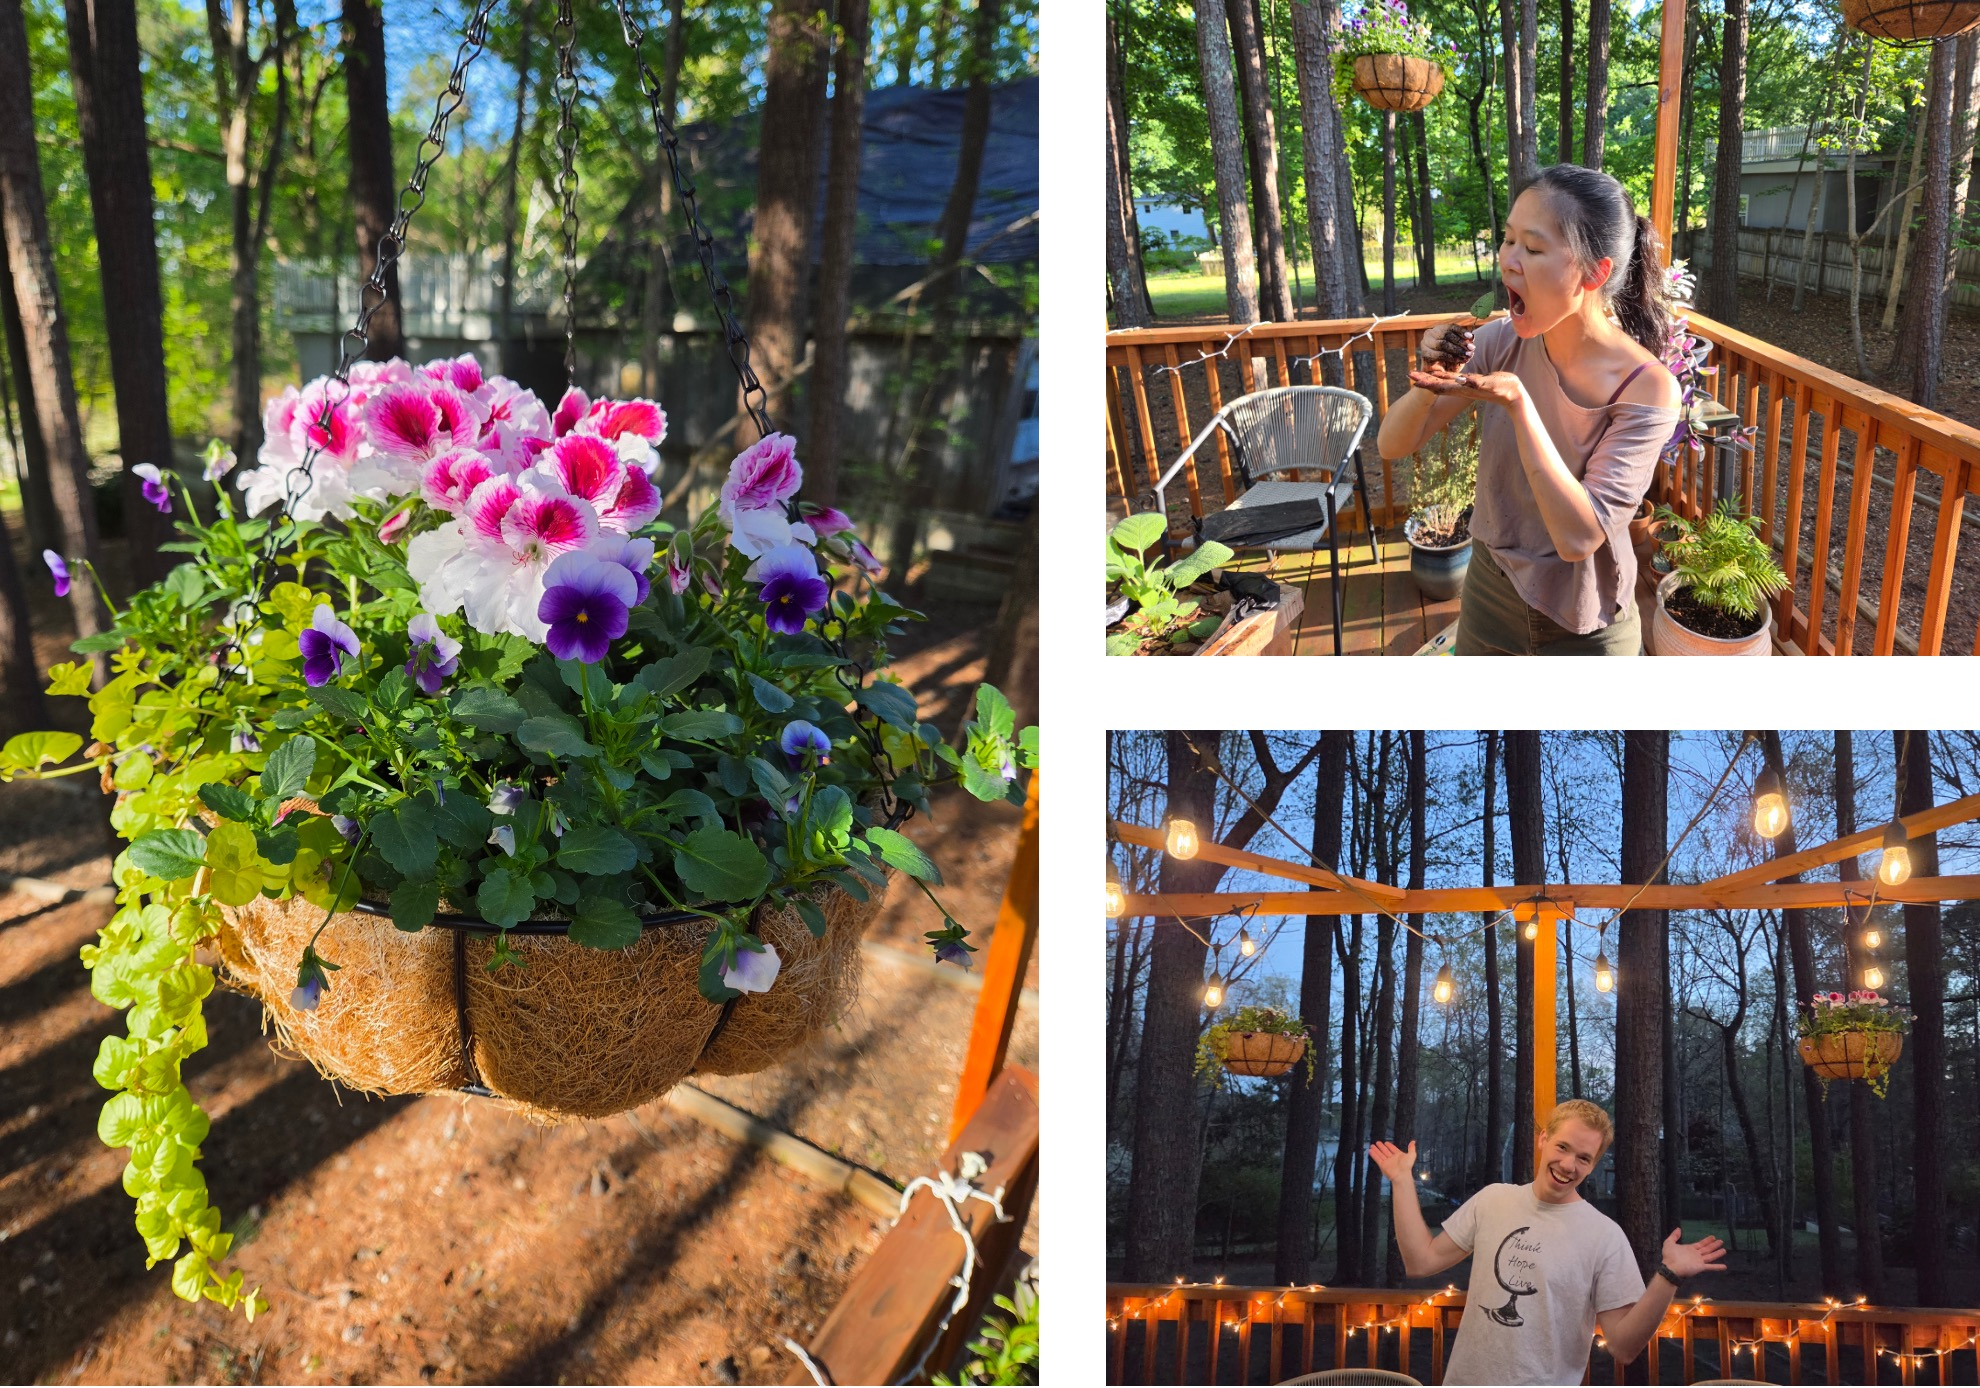
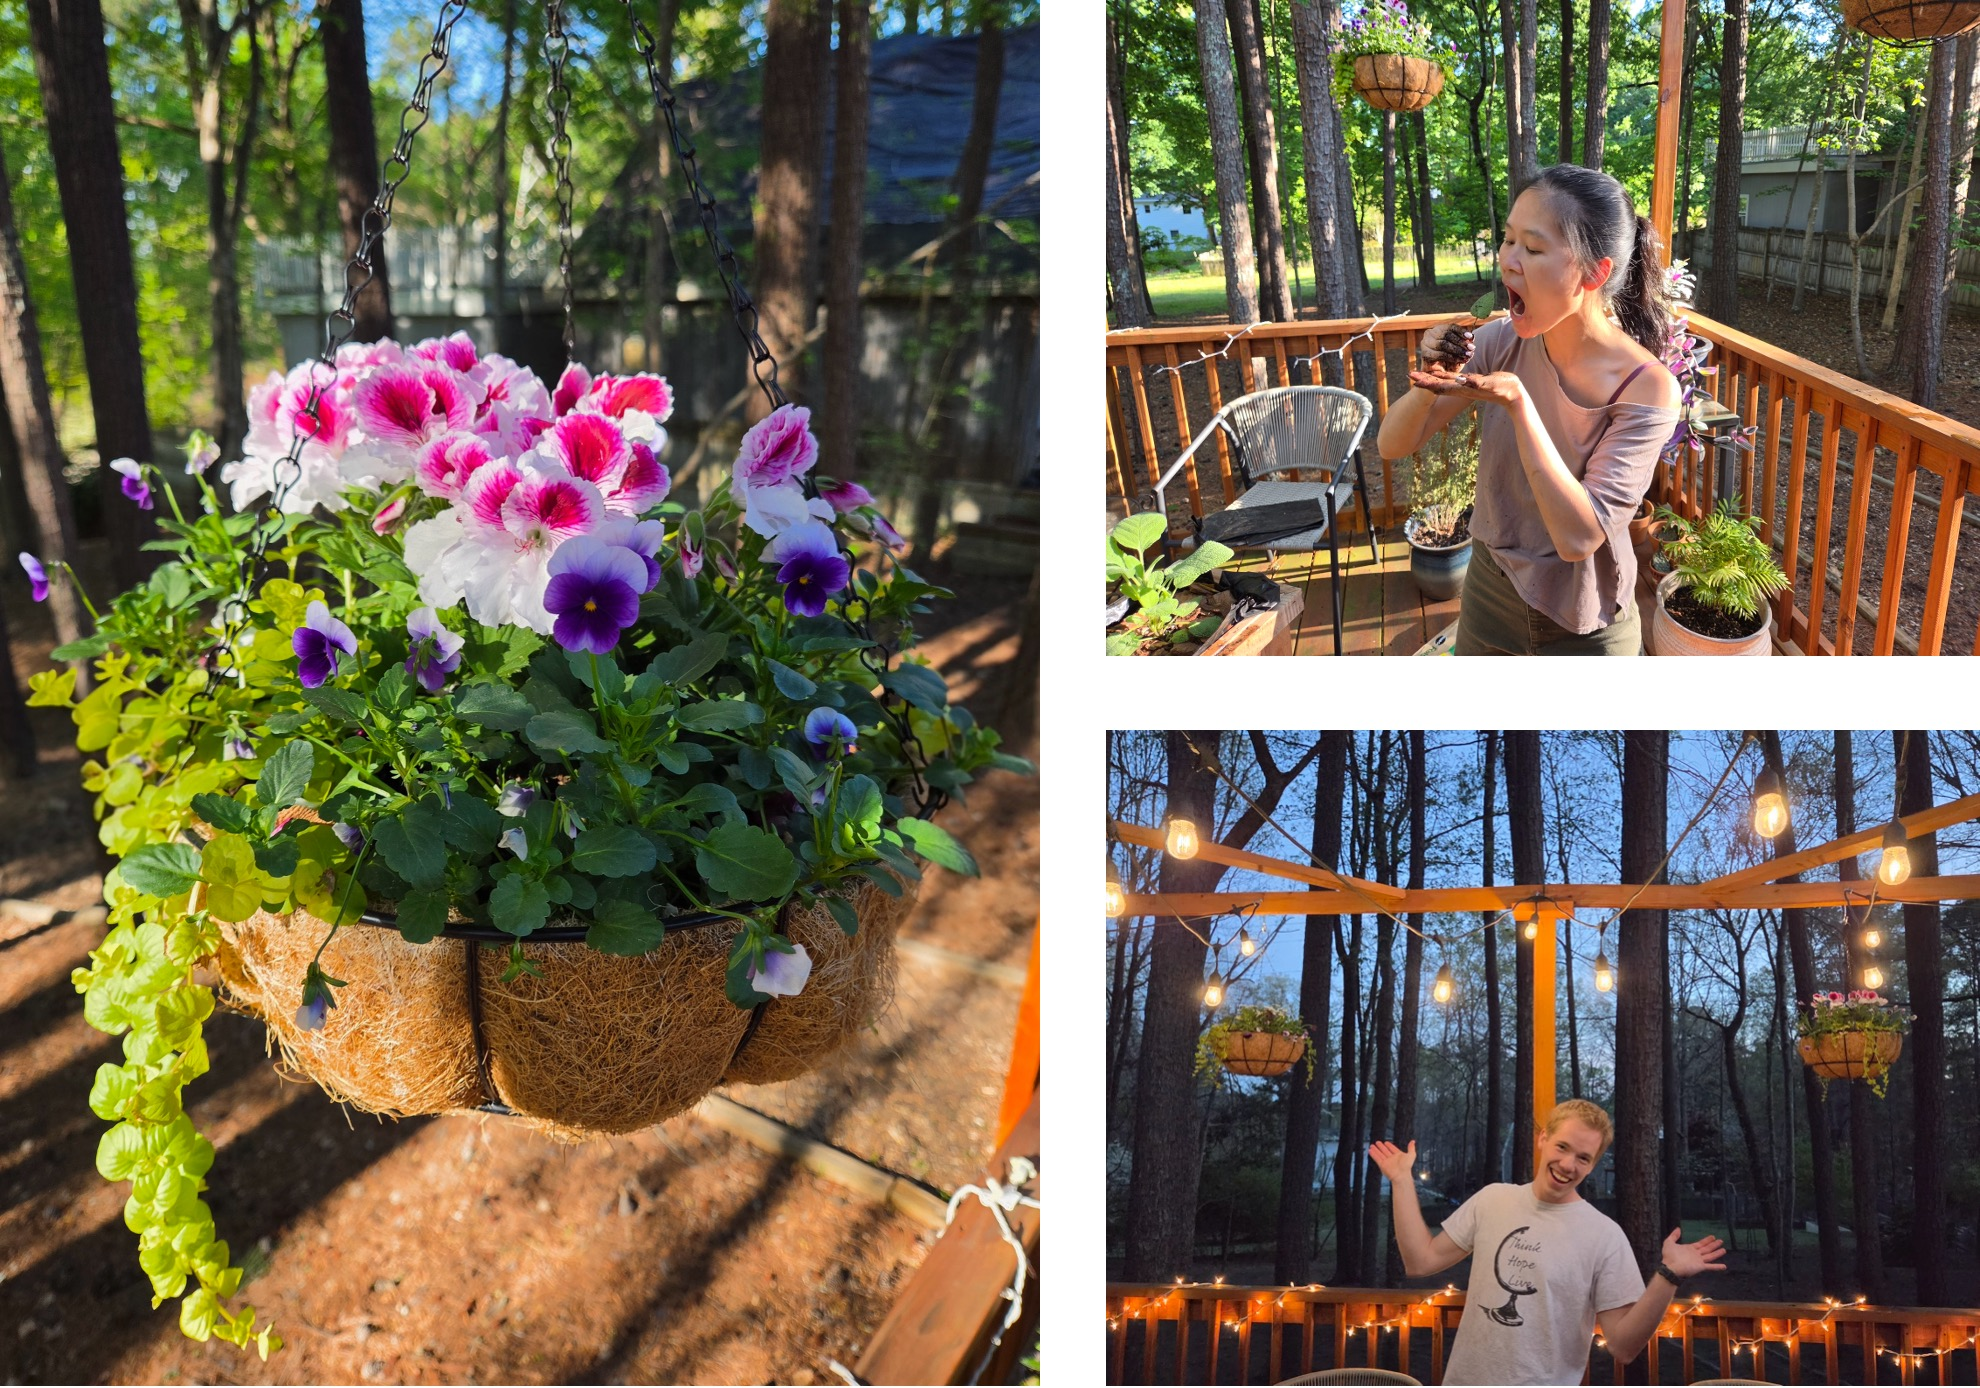
typos

diff --git a/docs/page_recipes.html b/docs/page_recipes.html
@@ -88,6 +88,11 @@
 <li class="toctree-l3"><a class="reference internal" href="#id14">Instructions</a></li>
 </ul>
 </li>
+<li class="toctree-l2"><a class="reference internal" href="#cacio-de-pere">Cacio de Pere</a><ul>
+<li class="toctree-l3"><a class="reference internal" href="#id16">Ingredients</a></li>
+<li class="toctree-l3"><a class="reference internal" href="#id17">Instructions</a></li>
+</ul>
+</li>
 </ul>
 </li>
 </ul>
@@ -133,7 +138,7 @@ This may be the case for family, custom, and social media recipes.</p>
 <li><p>1/2 small head cabbage, coarsely chopped (about 3 cups)</p></li>
 <li><p>1/4 cup chicken broth or white wine</p></li>
 <li><p>S&amp;P to taste</p></li>
-<li><p>Crumbled bacon (optional)</p></li>
+<li><p>crumbled bacon (optional)</p></li>
 </ul>
 </section>
 <section id="directions">
@@ -154,8 +159,8 @@ This may be the case for family, custom, and social media recipes.</p>
 <h3>Ingredients<a class="headerlink" href="#id3" title="Link to this heading"></a></h3>
 <ul class="simple">
 <li><p>2 lb russet potatoes</p></li>
-<li><p>Pinch white pepper</p></li>
-<li><p>Pinch nutmeg</p></li>
+<li><p>pinch white pepper</p></li>
+<li><p>pinch nutmeg</p></li>
 <li><p>S&amp;P to taste</p></li>
 <li><p>2 large eggs</p></li>
 <li><p>1/2 cup Ricotta cheese</p></li>
@@ -183,7 +188,7 @@ This may be the case for family, custom, and social media recipes.</p>
 <h3>Ingredients<a class="headerlink" href="#id6" title="Link to this heading"></a></h3>
 <ul class="simple">
 <li><p>1 lb chicken breasts</p></li>
-<li><p>Salt and pepper</p></li>
+<li><p>salt and pepper</p></li>
 <li><p>1/4 cup flour</p></li>
 <li><p>3 1/2 T unsalted butter</p></li>
 <li><p>2 cloves minced garlic</p></li>
@@ -246,7 +251,7 @@ This may be the case for family, custom, and social media recipes.</p>
 <ul class="simple">
 <li><p>1/2 cup sour cream</p></li>
 <li><p>1/4 cup mayonnaise</p></li>
-<li><p>Roasted garlic (the whole head)</p></li>
+<li><p>roasted garlic (the whole head)</p></li>
 <li><p>2 chipotle pepper</p></li>
 <li><p>1 T honey</p></li>
 <li><p>1/2 lime, juiced</p></li>
@@ -316,6 +321,39 @@ This may be the case for family, custom, and social media recipes.</p>
 <li><p>Meanwhile, mix the chili crisp, gochujang, soy sauce, brown sugar, rice vinegar, sesame oil and water together in a small dish to make the sauce mix.</p></li>
 <li><p>When the tofu is done, sauté the spring onion, garlic &amp; ginger until fragrant, then add the tofu followed by the sauce mix.</p></li>
 <li><p>Stir in &amp; cook down until thick &amp; sticky then serve immediately over rice, topped with spring onion &amp; sesame seeds.</p></li>
+</ol>
+<hr class="docutils" />
+</section>
+</section>
+<section id="cacio-de-pere">
+<span id="id15"></span><h2>Cacio de Pere<a class="headerlink" href="#cacio-de-pere" title="Link to this heading"></a></h2>
+<section id="id16">
+<h3>Ingredients<a class="headerlink" href="#id16" title="Link to this heading"></a></h3>
+<ul class="simple">
+<li><p>8 oz pappardelle pasta</p></li>
+<li><p>1 cup pecorino</p></li>
+<li><p>2 under-ripe pears</p></li>
+<li><p>olive oil</p></li>
+<li><p>salt and pepper</p></li>
+<li><p>grilled chicken</p></li>
+</ul>
+</section>
+<section id="id17">
+<h3>Instructions<a class="headerlink" href="#id17" title="Link to this heading"></a></h3>
+<ol class="arabic simple">
+<li><p>Cook the pasta. When draining, reserve at least 1 cup of pasta water.</p></li>
+<li><p>Measure out pecorino into bowl and season with pepper.</p></li>
+<li><p>Dice up the pears into 1/2” cubes.</p></li>
+<li><p>Place non-stick pan on medium-high heat with some olive oil.</p></li>
+<li><p>Add diced pears, then season generously with salt and pepper.</p></li>
+<li><p>Cook the pears for 5-8 min, stirring frequently, until golden brown.</p></li>
+<li><p>When the pears are done, remove them from the pan, keeping any free olive oil in the pan.</p></li>
+<li><p>Lower the heat to medium-low and add a little olive oil if the pan is dry.</p></li>
+<li><p>Crack in some pepper and sauté for a couple minutes.</p></li>
+<li><p>While the pepper heats up, add ~1/4 cup pasta water to the cheese bowl. Mix thoroughly until a smooth paste forms.</p></li>
+<li><p>Add the pasta to the pan and coat with olive oil.</p></li>
+<li><p>Add ~1/2 cup pasta water. Stir. Add the pears. Stir. Add the cheese paste. Stir.</p></li>
+<li><p>As soon as everything is combined, remove from heat.</p></li>
 </ol>
 </section>
 </section>

diff --git a/docs/calendar_summer26.html b/docs/calendar_summer26.html
@@ -169,7 +169,7 @@
 		<ul class="list-disc pl-5 event-summary">
 			<li class="event-hsv2" style="background-color: #c8e0d2;">May 28-June 1: FCF + HSV + Mtns ~ Fall Creek Falls to Huntsville to NC mountains</li>
 			<li class="event-rachel" style="background-color: #f9dece;">June 2: Rachel's 24th Bday</li>
-			<li class="event-movie" style="background-color: #e8d5e8;">June 13: Movie Date ~ Devil Wears Prada 2 at the Graham Theater</li>
+			<li class="event-movie" style="background-color: #e8d5e8;">June 13: Movie Date ~ The Devil Wears Prada 2 at the Graham Theater</li>
 			<li class="event-father" style="background-color: #d2f0ed;">June 21: Father's Day</li>
 		</ul>
 	</div>
@@ -200,7 +200,7 @@
 		<div class="calendar-day event-day"><span>17</span><div class="event-text event-sea" style="font-weight: bold;">Seattle</div></div>
 		<div class="calendar-day event-day"><span>18</span><div class="event-text event-sea" style="font-weight: bold;">Seattle</div></div>
 		<div class="calendar-day event-day"><span>19</span><div class="event-text event-sea" style="font-weight: bold;">Seattle</div></div>
-		<div class="calendar-day event-day"><span>20</span><div class="event-text event-sea" style="font-weight: bold;">Seattle</div><div class="event-text event-house" style="font-weight: bold;">Closing Date</div></div>
+		<div class="calendar-day event-day"><span>20</span><div class="event-text event-sea" style="font-weight: bold;">Seattle</div><div class="event-text event-house" style="font-weight: bold;">Closing</div></div>
 		<div class="calendar-day event-day"><span>21</span><div class="event-text event-sea" style="font-weight: bold;">Seattle</div></div>
 		<div class="calendar-day event-day"><span>22</span><div class="event-text event-sea" style="font-weight: bold;">Seattle</div></div>
 		<div class="calendar-day"><span>23</span></div>
@@ -217,7 +217,7 @@
 		<h3 class="text-base font-medium">Events:</h3>
 		<ul class="list-disc pl-5 event-summary">
 			<li class="event-sea" style="background-color: #e8d5e8;">July 15-22: Seattle ~ visiting Xingzi and Sophie in Seattle with Jennifer, and climbing mountains</li>
-			<li class="event-house" style="background-color: #c9e2f7;">July 20: Closing Date ~ finalization of Laura's Lynchburg house purchase</li>
+			<li class="event-house" style="background-color: #c9e2f7;">July 20: Closing ~ finalization of Laura's Lynchburg house purchase</li>
 			<li class="event-dad" style="background-color: #f9dece;">July 27: Dad's Bday ~ celebrating father Phillips' day of birth</li>
 			<li class="event-maine" style="background-color: #f9f3c7;">July 29-August 3: Jen Time Maine ~ exploring the pine tree state with Jennifer</li>
 		</ul>

diff --git a/docs/page_food.html b/docs/page_food.html
@@ -631,8 +631,8 @@ But it was so tasty that it belongs on this record to remind Daniel to make it a
 <img alt="_images/260415_kale_salad.webp" src="_images/260415_kale_salad.webp" />
 <div class="admonition tip">
 <p class="admonition-title">Tip</p>
-<p>One might be tempted to cool this salad down before serving (it is a salad after all), even though the recipe does not mention this step.
-While this salad may still be tasty cold, it is definitely best right after mixing, when still warm.</p>
+<p>One might be tempted to cool this salad down before serving (it’s a salad after all), even though the recipe does not mention this step.
+While this salad is still tasty cold, it is definitely best right after mixing, when still warm.</p>
 </div>
 </section>
 <section id="id52">
@@ -684,7 +684,7 @@ While this salad may still be tasty cold, it is definitely best right after mixi
 <img alt="_images/260527_burgers.webp" src="_images/260527_burgers.webp" />
 <div class="admonition warning">
 <p class="admonition-title">Warning</p>
-<p>When cooking for Sophie, pay extra attention to the doneness of the meat - it has a tendency to come out severely undercooked when she is around.</p>
+<p>When cooking for Sophie, pay extra attention to the doneness of the meat: it has a tendency to come out severely undercooked when she is around.</p>
 </div>
 </section>
 <section id="cauliflower-couscous-salad">

diff --git a/source/_extra/calendar_summer26.html b/source/_extra/calendar_summer26.html
@@ -169,7 +169,7 @@
 		<ul class="list-disc pl-5 event-summary">
 			<li class="event-hsv2" style="background-color: #c8e0d2;">May 28-June 1: FCF + HSV + Mtns ~ Fall Creek Falls to Huntsville to NC mountains</li>
 			<li class="event-rachel" style="background-color: #f9dece;">June 2: Rachel's 24th Bday</li>
-			<li class="event-movie" style="background-color: #e8d5e8;">June 13: Movie Date ~ Devil Wears Prada 2 at the Graham Theater</li>
+			<li class="event-movie" style="background-color: #e8d5e8;">June 13: Movie Date ~ The Devil Wears Prada 2 at the Graham Theater</li>
 			<li class="event-father" style="background-color: #d2f0ed;">June 21: Father's Day</li>
 		</ul>
 	</div>
@@ -200,7 +200,7 @@
 		<div class="calendar-day event-day"><span>17</span><div class="event-text event-sea" style="font-weight: bold;">Seattle</div></div>
 		<div class="calendar-day event-day"><span>18</span><div class="event-text event-sea" style="font-weight: bold;">Seattle</div></div>
 		<div class="calendar-day event-day"><span>19</span><div class="event-text event-sea" style="font-weight: bold;">Seattle</div></div>
-		<div class="calendar-day event-day"><span>20</span><div class="event-text event-sea" style="font-weight: bold;">Seattle</div><div class="event-text event-house" style="font-weight: bold;">Closing Date</div></div>
+		<div class="calendar-day event-day"><span>20</span><div class="event-text event-sea" style="font-weight: bold;">Seattle</div><div class="event-text event-house" style="font-weight: bold;">Closing</div></div>
 		<div class="calendar-day event-day"><span>21</span><div class="event-text event-sea" style="font-weight: bold;">Seattle</div></div>
 		<div class="calendar-day event-day"><span>22</span><div class="event-text event-sea" style="font-weight: bold;">Seattle</div></div>
 		<div class="calendar-day"><span>23</span></div>
@@ -217,7 +217,7 @@
 		<h3 class="text-base font-medium">Events:</h3>
 		<ul class="list-disc pl-5 event-summary">
 			<li class="event-sea" style="background-color: #e8d5e8;">July 15-22: Seattle ~ visiting Xingzi and Sophie in Seattle with Jennifer, and climbing mountains</li>
-			<li class="event-house" style="background-color: #c9e2f7;">July 20: Closing Date ~ finalization of Laura's Lynchburg house purchase</li>
+			<li class="event-house" style="background-color: #c9e2f7;">July 20: Closing ~ finalization of Laura's Lynchburg house purchase</li>
 			<li class="event-dad" style="background-color: #f9dece;">July 27: Dad's Bday ~ celebrating father Phillips' day of birth</li>
 			<li class="event-maine" style="background-color: #f9f3c7;">July 29-August 3: Jen Time Maine ~ exploring the pine tree state with Jennifer</li>
 		</ul>

diff --git a/docs/page_timeline.html b/docs/page_timeline.html
@@ -61,6 +61,7 @@
 <li class="toctree-l2"><a class="reference internal" href="#second-wedding">Second Wedding</a></li>
 <li class="toctree-l2"><a class="reference internal" href="#one-year-anniversary">One Year Anniversary</a></li>
 <li class="toctree-l2"><a class="reference internal" href="#plants-in-south-carolina">Plants in South Carolina</a></li>
+<li class="toctree-l2"><a class="reference internal" href="#spring-planting">Spring Planting</a></li>
 </ul>
 </li>
 <li class="toctree-l1"><a class="reference internal" href="page_food.html">Lover’s Digest</a></li>
@@ -205,6 +206,10 @@ The separation hurt them both deeply, and they hope to always celebrate together
 <h2>Plants in South Carolina<a class="headerlink" href="#plants-in-south-carolina" title="Link to this heading"></a></h2>
 <p>Daniel could not have asked for a better Christmas present.</p>
 <img alt="_images/251227_SC_plants.webp" src="_images/251227_SC_plants.webp" />
+</section>
+<section id="spring-planting">
+<h2>Spring Planting<a class="headerlink" href="#spring-planting" title="Link to this heading"></a></h2>
+<img alt="_images/260503_planting.webp" src="_images/260503_planting.webp" />
 </section>
 </section>
 

diff --git a/docs/page_projects.html b/docs/page_projects.html
@@ -126,7 +126,7 @@ For an overwhelmingly cute documentation of her reads (or, to be more accurate, 
 </section>
 <section id="wood-chop">
 <h2>Wood Chop<a class="headerlink" href="#wood-chop" title="Link to this heading"></a></h2>
-<p>No better way to stay warm in the winter! Plus, the fire later is nice and warm too!</p>
+<p>No better way to stay warm in the winter! Plus, the fire is nice and warm too!</p>
 <div style="position: relative; width: 100%; max-width: 100%;">
     <video width="100%" height="auto" loop controls>
         <source src="260123_chop.mp4" type="video/mp4">
@@ -138,7 +138,7 @@ For an overwhelmingly cute documentation of her reads (or, to be more accurate, 
 <img alt="_images/260301_seedlings.webp" src="_images/260301_seedlings.webp" />
 <div class="admonition attention">
 <p class="admonition-title">Attention</p>
-<p>Ideally, seeds should be planted when the primary caretaker will be nearby, giving the seedlins attention and keeping the soil moist, for the next several weeks.
+<p>Ideally, seeds should be planted when the primary caretaker will be nearby for the next several weeks, making sure the seedlings receive ample attention and the soil stays moist.
 If, for example, the head gardener were to (partially unexpectedly) leave town for 2.5 weeks shortly after sowing the seeds, and the seeds were to remain without water for the duration of this period, the seedlings would most assuredly die.</p>
 </div>
 </section>

diff --git a/docs/index.html b/docs/index.html
@@ -109,6 +109,7 @@ As far as he can tell, Laura liked it. This conclusion can be made with some con
 <li class="toctree-l2"><a class="reference internal" href="page_timeline.html#second-wedding">Second Wedding</a></li>
 <li class="toctree-l2"><a class="reference internal" href="page_timeline.html#one-year-anniversary">One Year Anniversary</a></li>
 <li class="toctree-l2"><a class="reference internal" href="page_timeline.html#plants-in-south-carolina">Plants in South Carolina</a></li>
+<li class="toctree-l2"><a class="reference internal" href="page_timeline.html#spring-planting">Spring Planting</a></li>
 </ul>
 </li>
 <li class="toctree-l1"><a class="reference internal" href="page_food.html">Lover’s Digest</a><ul>
@@ -269,6 +270,7 @@ As far as he can tell, Laura liked it. This conclusion can be made with some con
 <li class="toctree-l2"><a class="reference internal" href="page_recipes.html#sheet-pan-fajitas">Sheet Pan Fajitas</a></li>
 <li class="toctree-l2"><a class="reference internal" href="page_recipes.html#burgers">Burgers</a></li>
 <li class="toctree-l2"><a class="reference internal" href="page_recipes.html#gochujang-tofu-mince">Gochujang Tofu Mince</a></li>
+<li class="toctree-l2"><a class="reference internal" href="page_recipes.html#cacio-de-pere">Cacio de Pere</a></li>
 </ul>
 </li>
 </ul>

diff --git a/source/page_recipes.rst b/source/page_recipes.rst
@@ -21,7 +21,7 @@ Ingredients
 * 1/2 small head cabbage, coarsely chopped (about 3 cups)
 * 1/4 cup chicken broth or white wine
 * S&P to taste
-* Crumbled bacon (optional)
+* crumbled bacon (optional)
 
 Directions
 ^^^^^^^^^^
@@ -43,8 +43,8 @@ Ingredients
 ^^^^^^^^^^^
 
 * 2 lb russet potatoes
-* Pinch white pepper
-* Pinch nutmeg
+* pinch white pepper
+* pinch nutmeg
 * S&P to taste
 * 2 large eggs
 * 1/2 cup Ricotta cheese
@@ -73,7 +73,7 @@ Ingredients
 ^^^^^^^^^^^
 
 * 1 lb chicken breasts
-* Salt and pepper
+* salt and pepper
 * 1/4 cup flour
 * 3 1/2 T unsalted butter
 * 2 cloves minced garlic
@@ -138,7 +138,7 @@ Ingredients
 
 * 1/2 cup sour cream
 * 1/4 cup mayonnaise
-* Roasted garlic (the whole head)
+* roasted garlic (the whole head)
 * 2 chipotle pepper
 * 1 T honey
 * 1/2 lime, juiced
@@ -209,5 +209,42 @@ Instructions
 #. Meanwhile, mix the chili crisp, gochujang, soy sauce, brown sugar, rice vinegar, sesame oil and water together in a small dish to make the sauce mix.
 #. When the tofu is done, sauté the spring onion, garlic & ginger until fragrant, then add the tofu followed by the sauce mix.
 #. Stir in & cook down until thick & sticky then serve immediately over rice, topped with spring onion & sesame seeds.
+
+____
+
+.. _cacio_de_pere:
+
+Cacio de Pere
+-------------
+
+Ingredients
+^^^^^^^^^^^
+
+* 8 oz pappardelle pasta
+* 1 cup pecorino
+* 2 under-ripe pears
+* olive oil
+* salt and pepper
+* grilled chicken
+
+Instructions
+^^^^^^^^^^^^
+
+#. Cook the pasta. When draining, reserve at least 1 cup of pasta water.
+#. Measure out pecorino into bowl and season with pepper.
+#. Dice up the pears into 1/2" cubes.
+#. Place non-stick pan on medium-high heat with some olive oil.
+#. Add diced pears, then season generously with salt and pepper.
+#. Cook the pears for 5-8 min, stirring frequently, until golden brown.
+#. When the pears are done, remove them from the pan, keeping any free olive oil in the pan.
+#. Lower the heat to medium-low and add a little olive oil if the pan is dry.
+#. Crack in some pepper and sauté for a couple minutes.
+#. While the pepper heats up, add ~1/4 cup pasta water to the cheese bowl. Mix thoroughly until a smooth paste forms.
+#. Add the pasta to the pan and coat with olive oil. 
+#. Add ~1/2 cup pasta water. Stir. Add the pears. Stir. Add the cheese paste. Stir.
+#. As soon as everything is combined, remove from heat.
+
+
+
 
 

diff --git a/source/page_food.rst b/source/page_food.rst
@@ -747,8 +747,8 @@ __ https://www.onceuponachef.com/recipes/perfectly-grilled-chicken-breasts.html
 .. image:: _images/processed/food/260415_kale_salad.webp
 
 .. tip::
-   One might be tempted to cool this salad down before serving (it is a salad after all), even though the recipe does not mention this step.
-   While this salad may still be tasty cold, it is definitely best right after mixing, when still warm.
+   One might be tempted to cool this salad down before serving (it's a salad after all), even though the recipe does not mention this step.
+   While this salad is still tasty cold, it is definitely best right after mixing, when still warm.
 
 ===============
 Chicken Piccata
@@ -844,7 +844,7 @@ __ https://thepracticalkitchen.com/soft-baked-ciabatta-bread/
 .. image:: _images/processed/food/260527_burgers.webp
 
 .. warning::
-   When cooking for Sophie, pay extra attention to the doneness of the meat - it has a tendency to come out severely undercooked when she is around.
+   When cooking for Sophie, pay extra attention to the doneness of the meat: it has a tendency to come out severely undercooked when she is around.
 
 ==========================
 Cauliflower Couscous Salad

diff --git a/source/page_timeline.rst b/source/page_timeline.rst
@@ -135,8 +135,11 @@ Daniel could not have asked for a better Christmas present.
 
 .. image:: _images/processed/timeline/251227_SC_plants.webp
 
+===============
+Spring Planting
+===============
 
-
+.. image:: _images/processed/timeline/260503_planting.webp
 
 
 

diff --git a/source/page_projects.rst b/source/page_projects.rst
@@ -46,7 +46,7 @@ Pyrographed Hug
 Wood Chop
 =========
 
-No better way to stay warm in the winter! Plus, the fire later is nice and warm too!
+No better way to stay warm in the winter! Plus, the fire is nice and warm too!
 
 .. raw:: html
 
@@ -64,6 +64,6 @@ Seedlings
 .. image:: _images/processed/projects/260301_seedlings.webp
 
 .. attention::
-   Ideally, seeds should be planted when the primary caretaker will be nearby, giving the seedlins attention and keeping the soil moist, for the next several weeks.
+   Ideally, seeds should be planted when the primary caretaker will be nearby for the next several weeks, making sure the seedlings receive ample attention and the soil stays moist.
    If, for example, the head gardener were to (partially unexpectedly) leave town for 2.5 weeks shortly after sowing the seeds, and the seeds were to remain without water for the duration of this period, the seedlings would most assuredly die.
 